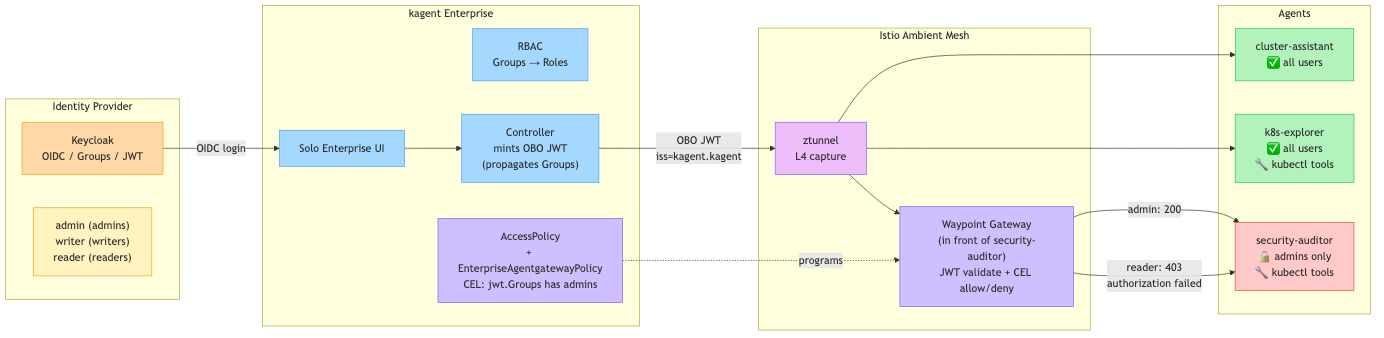
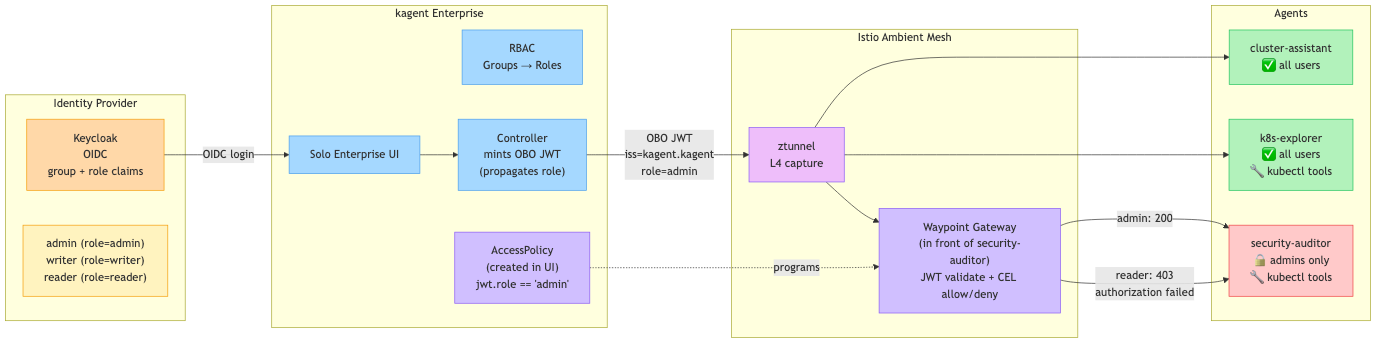
docs(kagent-security): refresh diagram + README + reconfig.sh for role claim
The demo flow switched from `Groups` (array) to `role` (single string)
when the kagent translator's string-eq CEL was worked around. Stale
docs still referenced the old shape:

- docs/architecture.{mmd,png}: shows `role` claim through the OBO
  token, single AccessPolicy box (no longer dual-resource), CEL
  `jwt.role == 'admin'`.
- README.md: flow text now mentions both Groups + role claims and
  the actual CEL the policy enforces.
- reconfig.sh: oboClaimsToPropagate now includes `role`, and the
  refreshed access-policy.yaml is an AccessPolicy (not the old
  manual EnterpriseAgentgatewayPolicy targeting Groups).

Changed region(s): [[0.0, 0.0, 0.9942, 1.0], [0.2796, 0.0296, 0.3728, 0.0592], [0.6214, 0.1775, 0.6525, 0.2071]]

diff --git a/workshops/kagent-security/README.md b/workshops/kagent-security/README.md
@@ -7,11 +7,11 @@ A 25-minute security demo for Solo Enterprise for kagent using Keycloak as the I
 [![Architecture](docs/architecture.png)](https://excalidraw.com/#json=GlPxqn_ob4TWIMYJbWqO7,OLQn0Qgdo0IOD2ULhOy4jg)
 
 **Flow:**
-1. User authenticates via Keycloak (OIDC)
+1. User authenticates via Keycloak (OIDC). Keycloak emits both `Groups` (array) and `role` (single string) claims.
 2. RBAC maps IdP groups to kagent roles (Admin/Writer/Reader)
-3. kagent mints an OBO (On-Behalf-Of) token carrying the user's `Groups` claim
-4. AccessPolicies translate to `EnterpriseAgentgatewayPolicy` enforced at the Istio ambient waypoint in front of each restricted agent
-5. Agent Gateway validates the OBO token's `Groups` claim against a CEL policy and forwards or rejects with `403 authorization failed`
+3. kagent mints an OBO (On-Behalf-Of) token carrying the user's propagated claims (incl. `role`)
+4. AccessPolicies created in the kagent UI translate to `EnterpriseAgentgatewayPolicy` and attach to the Istio ambient waypoint in front of each restricted agent
+5. Agent Gateway validates the OBO token's `role` claim against a CEL policy (`jwt.role == "admin"`) and forwards or rejects with `403 authorization failed`
 
 ## Quick Start
 
